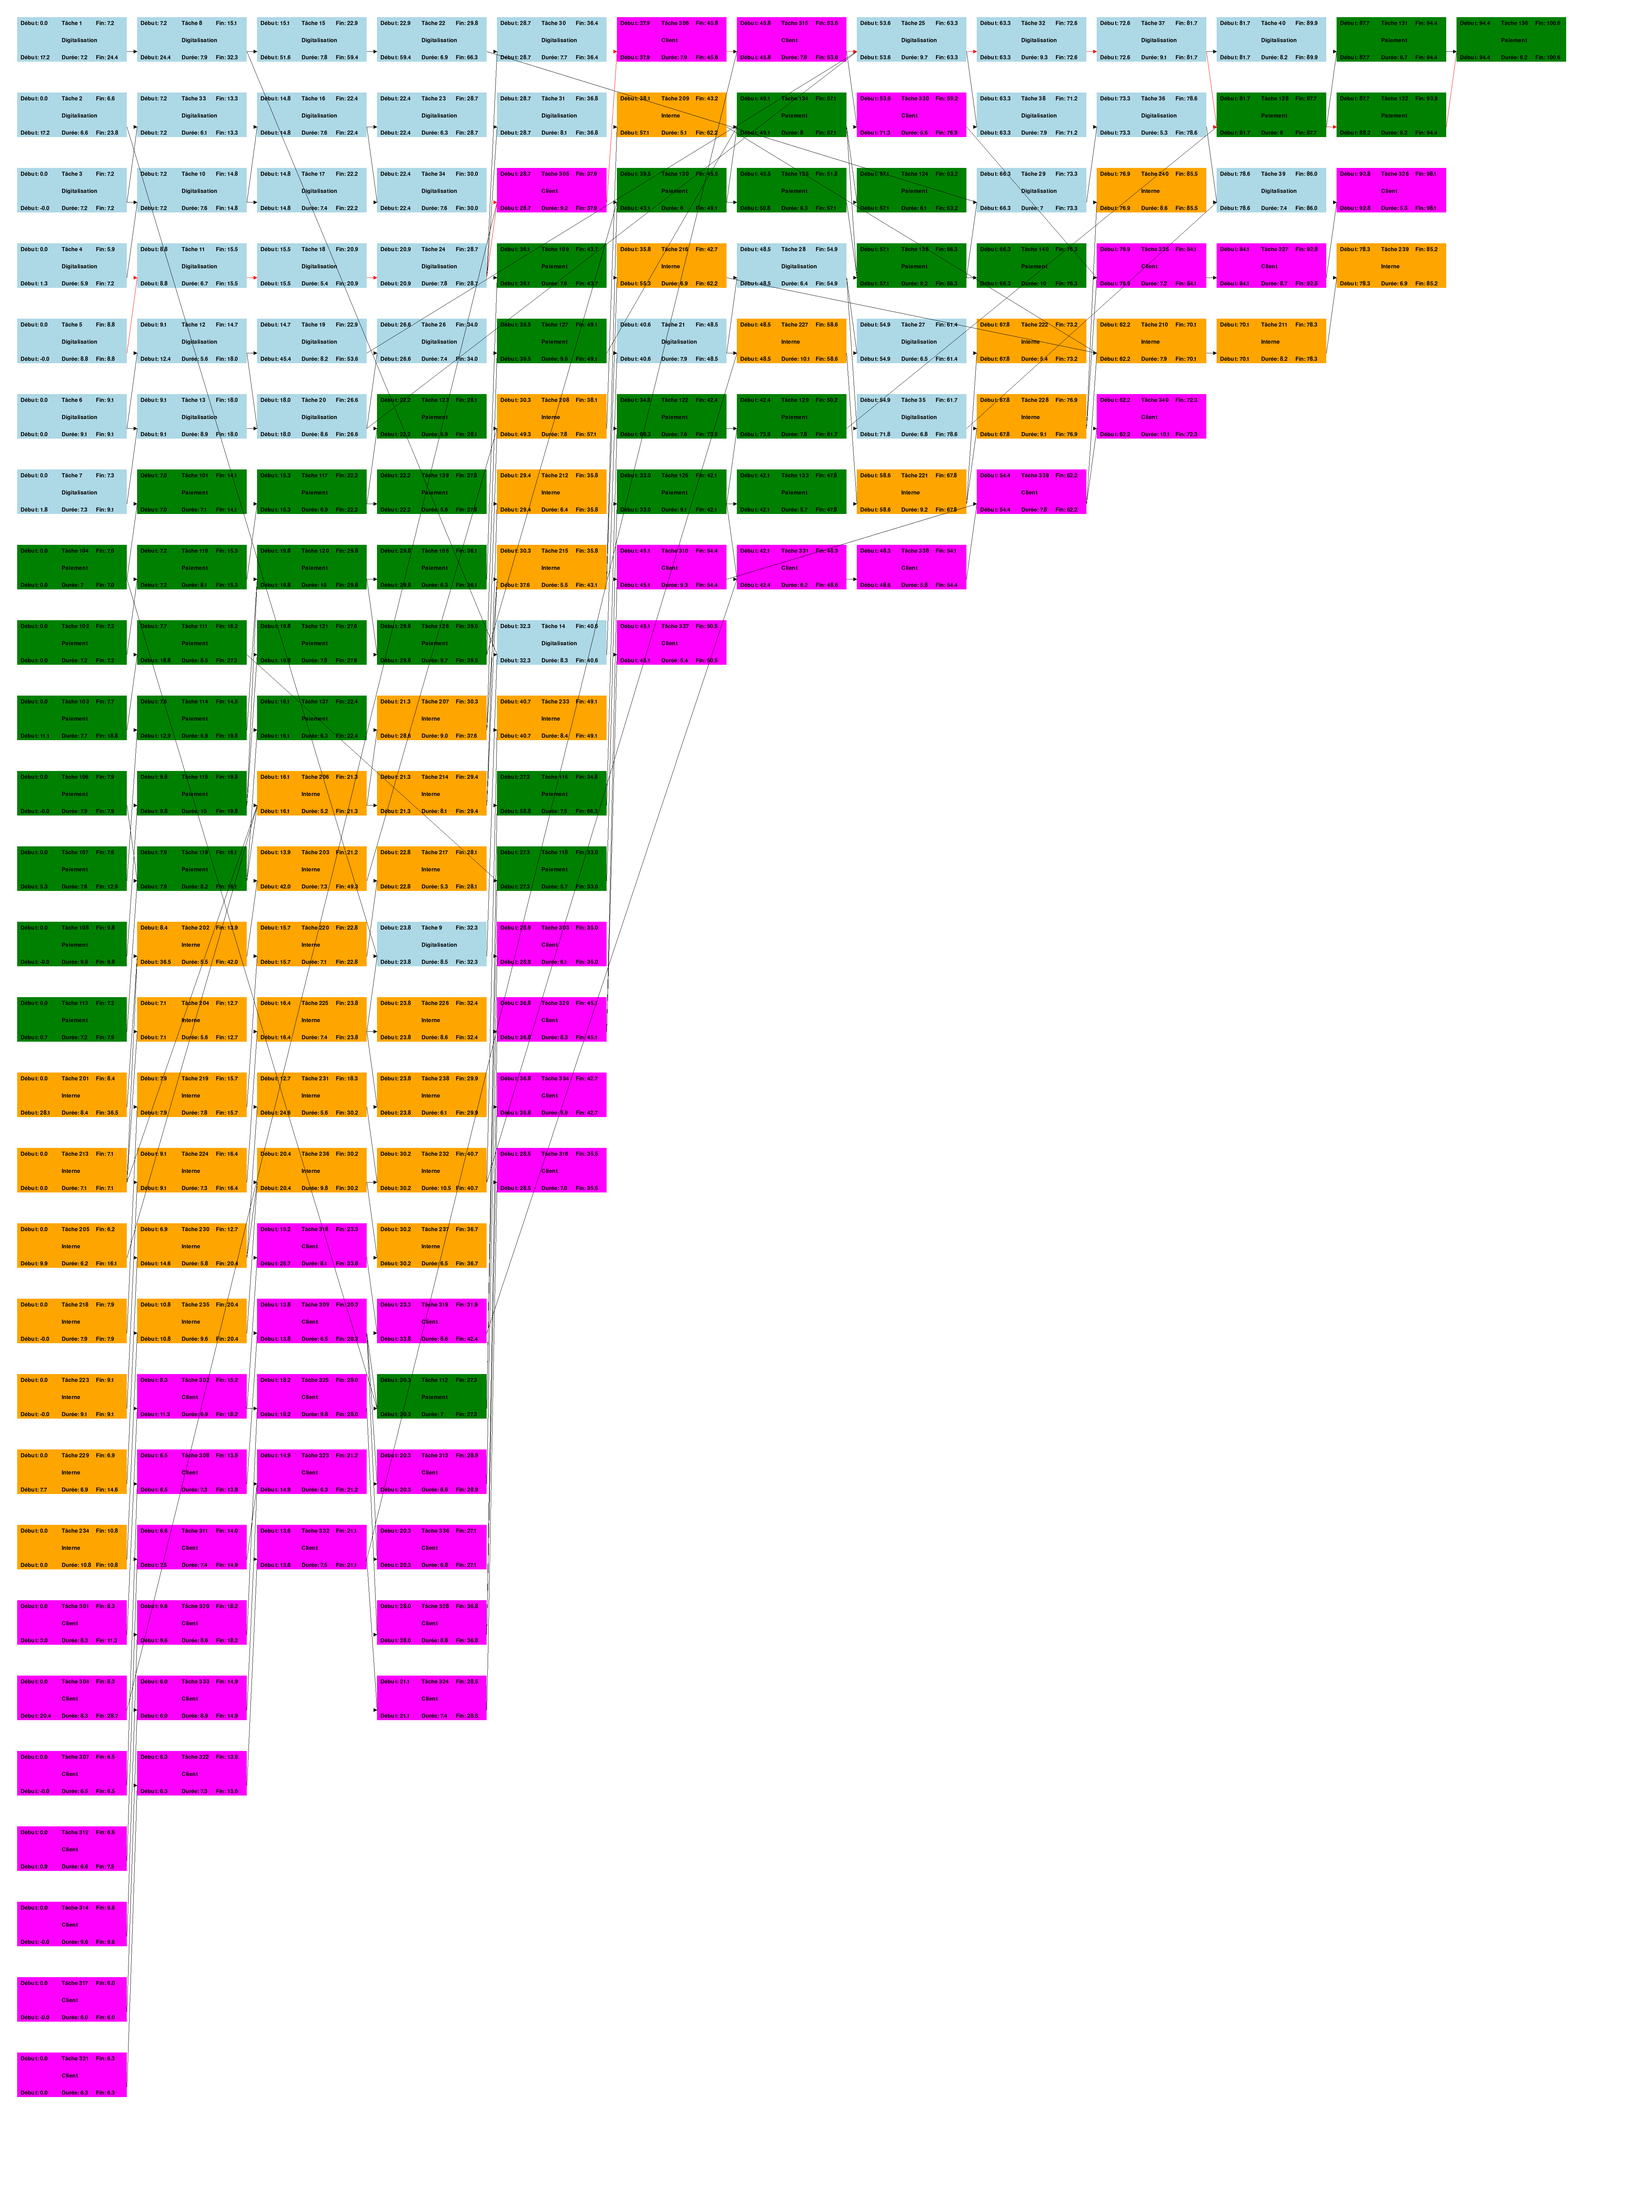
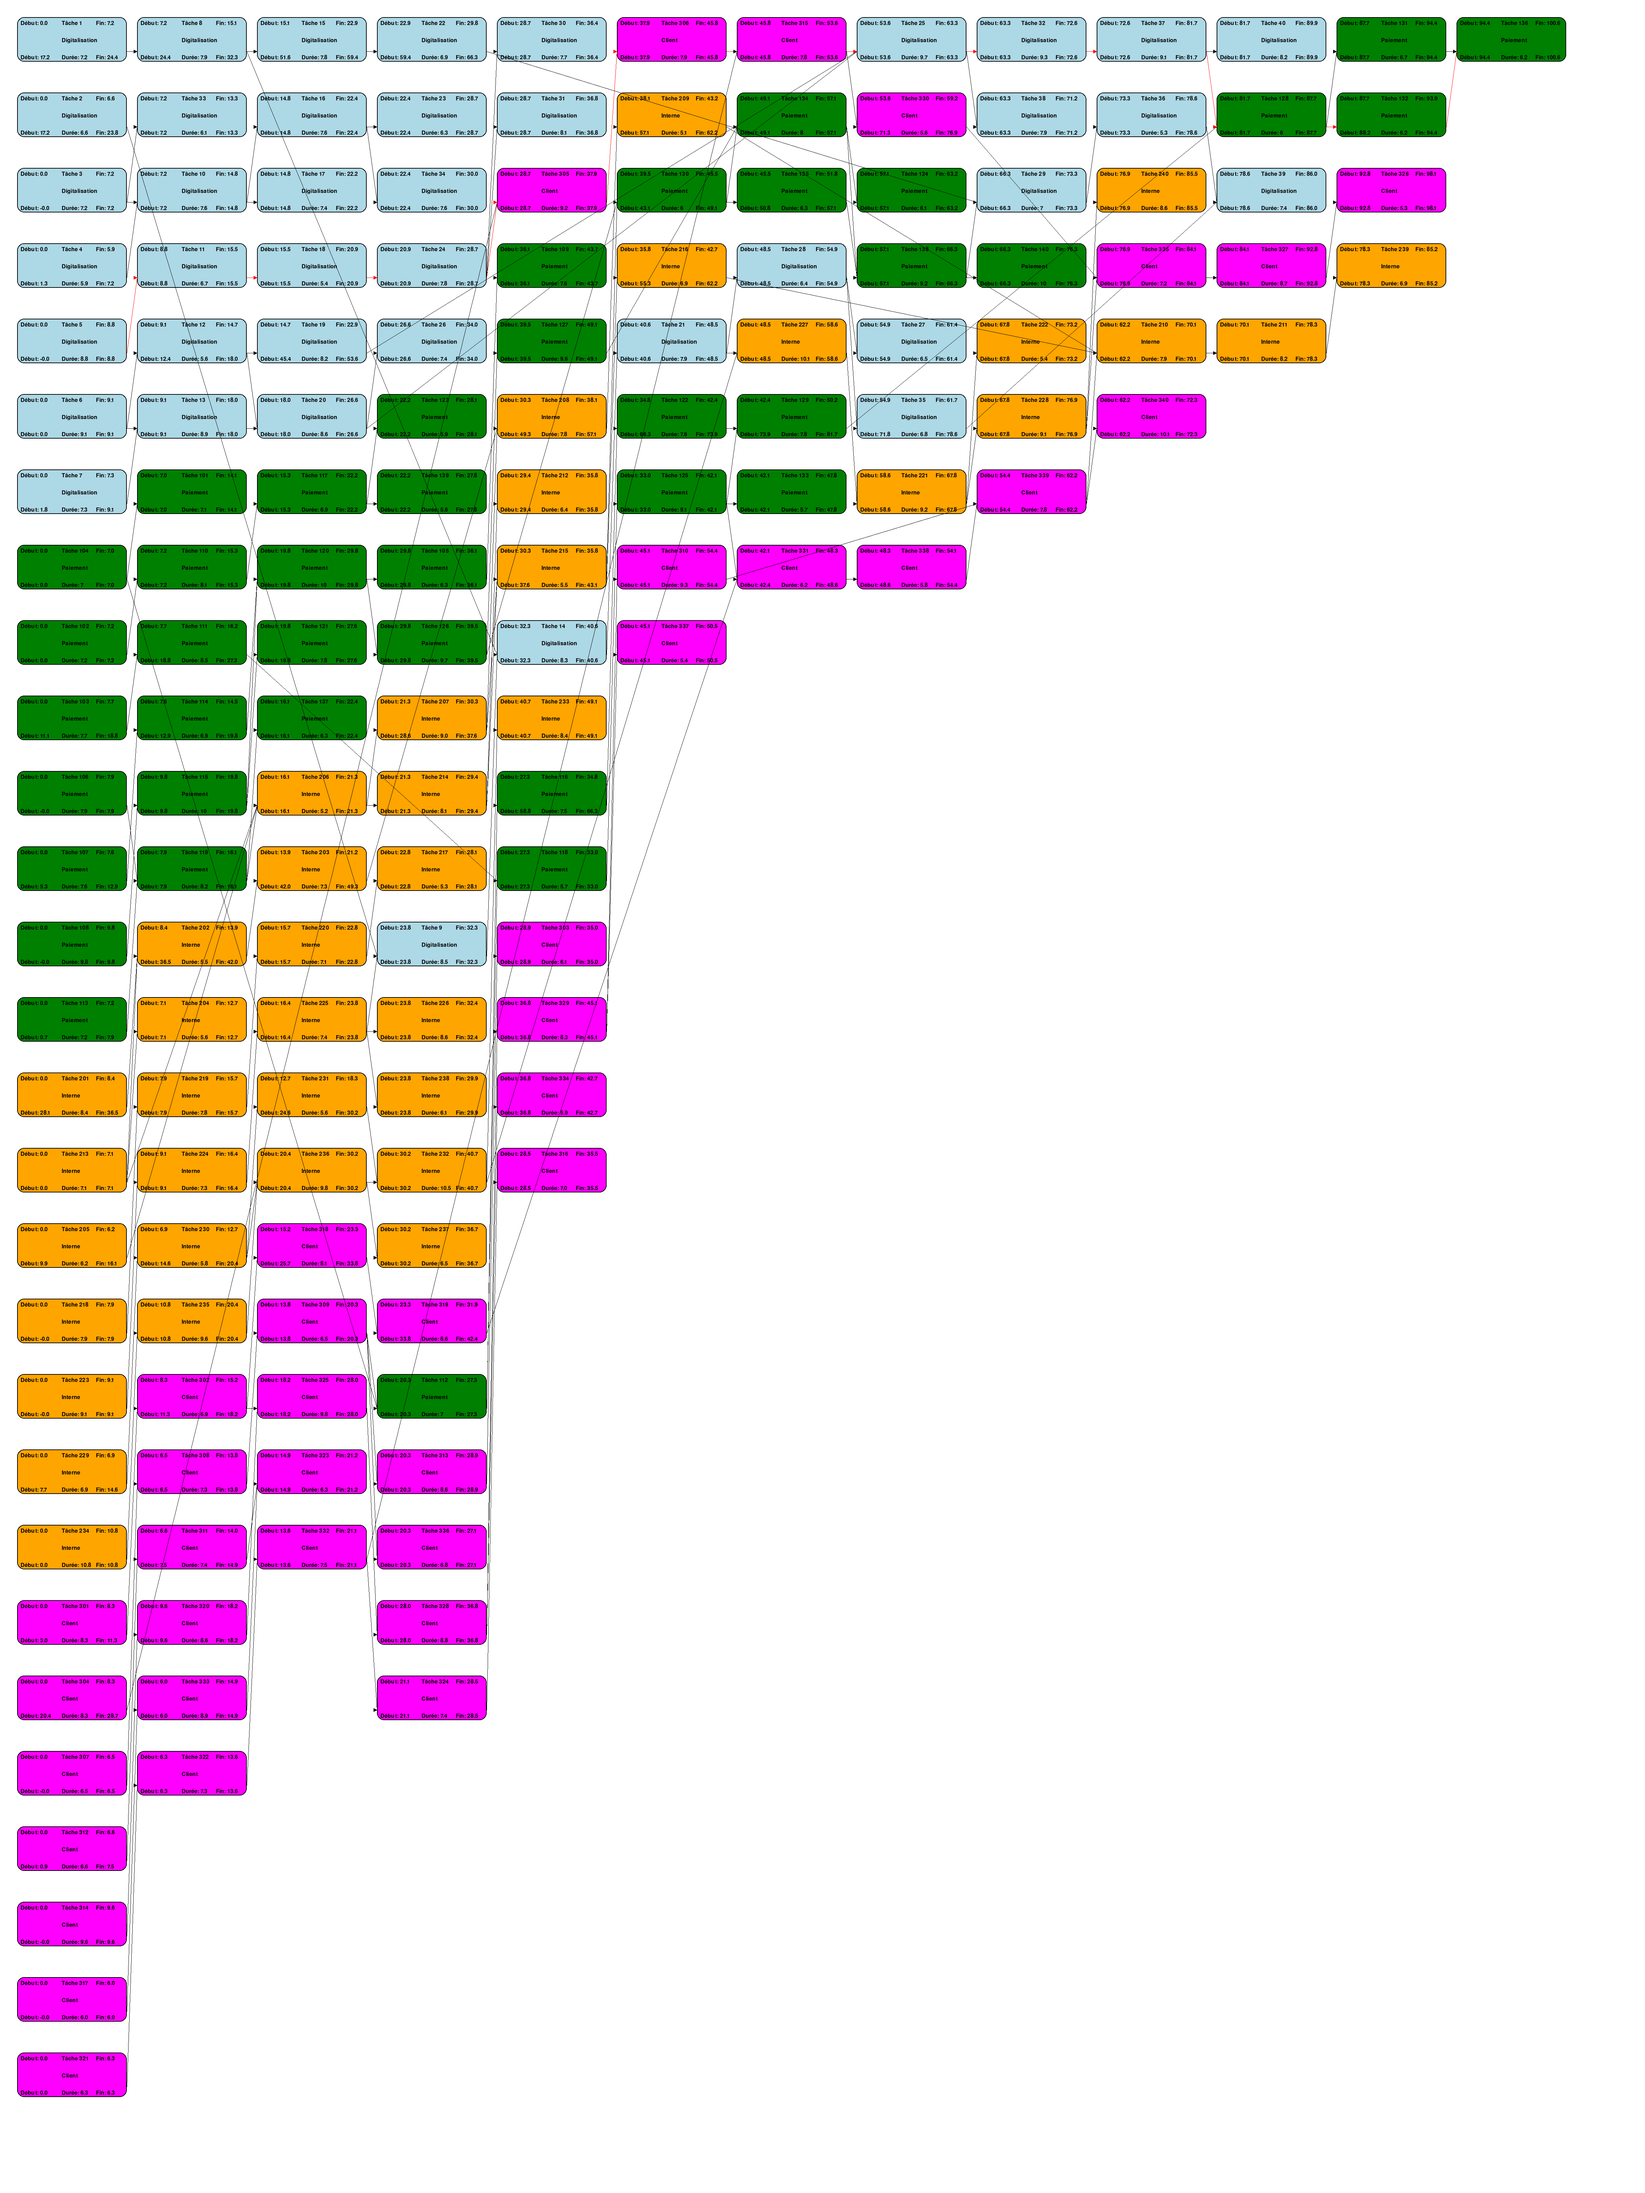
Refactorisation de l'affichage des tâches et de la capture d'écran

diff --git a/Algo PERT.py b/Algo PERT.py
@@ -53,46 +53,7 @@ def calcul_dates(taches):
         temps_taches[tache["id"]] = (debut, fin)
     return temps_taches
 
-# Fonction pour calculer les temps au plus tard
-def calcul_temps_tard2(taches, temps_taches):
-    temps_max = 100.6
-    last_taches = []
-    
-    for tache in taches:
-        has_child = False
-        for tache2 in taches:
-            if tache['id'] in tache2['predecesseurs']:
-                has_child = True
-                break
-        if not has_child:
-            last_taches.append(tache)
-    
-    cur_taches = last_taches
-    
-    for t in cur_taches:
-        t['end_tard'] = temps_max
-        t['start_tard'] = t['end_tard'] - t['duree']
-    
-    while cur_taches:
-        next_cur_taches = []
-        for t in cur_taches:
-            child = []
-            child_complet = True
-            if type(t) == int:
-                continue
-            for t2 in cur_taches:
-                if t['id'] in t2['predecesseurs']:
-                    child.append(t2)
-                    if t2['start_tard'] == None:
-                        child_complet = False
-            if child_complet and child != []:
-                min_start_tard = min([t2['start_tard'] for t2 in child])
-                t['end_tard'] = min_start_tard
-                t['start_tard'] = t['end_tard'] - t['duree']
-            for t2 in t['predecesseurs']:
-                next_cur_taches.append(t2)
-        cur_taches = next_cur_taches
-
+# Calcul des temps au plus tard
 def calcul_temps_tard(taches, temps_taches):
     G = nx.DiGraph()
     for tache in taches:
@@ -289,6 +250,76 @@ def capturer_reseau_complet():
     image_finale.save("reseau_complet.png")
     print("Réseau complet capturé avec succès.")
 
+# Fonction pour prioriser les tâches en fonction de l'impact inter-projets
+def prioriser_taches_par_impact(taches):
+    G = nx.DiGraph()
+    for tache in taches:
+        G.add_node(tache["id"], projet=tache["id"] // 100)
+        for prec in tache["predecesseurs"]:
+            G.add_edge(prec, tache["id"])
+
+    # Calculer le nombre de successeurs pour chaque tâche
+    nombre_successeurs = {tache["id"]: len(list(nx.descendants(G, tache["id"]))) for tache in taches}
+    
+    # Ajouter une priorité basée sur l'impact sur d'autres projets
+    for tache in taches:
+        successeurs = list(nx.descendants(G, tache["id"]))
+        impact_inter_projet = len([s for s in successeurs if G.nodes[s]["projet"] != G.nodes[tache["id"]]["projet"]])
+        tache["priorite"] = nombre_successeurs[tache["id"]] + impact_inter_projet * 2  # Pondérer plus fortement les impacts inter-projets
+
+    # Trier les tâches par priorité décroissante (plus de successeurs et d'impact inter-projet en premier)
+    taches_triees = sorted(taches, key=lambda t: t["priorite"], reverse=True)
+    return taches_triees
+
+def definir_ordre_taches(taches):
+    # Séparer les tâches par catégorie
+    ordre_taches_digit = []
+    ordre_taches_paiement = []
+    ordre_taches_interne = []
+    ordre_taches_client = []
+    
+    for tache in taches:
+        if tache["id"] < 100:
+            ordre_taches_digit.append(tache)
+        elif tache["id"] < 200:
+            ordre_taches_paiement.append(tache)
+        elif tache["id"] < 300:
+            ordre_taches_interne.append(tache)
+        else:
+            ordre_taches_client.append(tache)
+    
+    # Calculer le chemin critique pour chaque catégorie
+    chemin_critique_digit = calcul_chemin_critique(ordre_taches_digit)
+    chemin_critique_paiement = calcul_chemin_critique(ordre_taches_paiement)
+    chemin_critique_interne = calcul_chemin_critique(ordre_taches_interne)
+    chemin_critique_client = calcul_chemin_critique(ordre_taches_client)
+    
+    # Fonction pour trier les tâches en fonction du chemin critique et du temps des tâches
+    def trier_taches_par_chemin_critique_et_temps(ordre_taches, chemin_critique):
+        taches_critique = [tache for tache in ordre_taches if tache["id"] in chemin_critique]
+        taches_non_critique = [tache for tache in ordre_taches if tache["id"] not in chemin_critique]
+        
+        # Trier les tâches critiques par ordre de leur apparition dans le chemin critique
+        taches_critique.sort(key=lambda t: chemin_critique.index(t["id"]))
+        
+        # Trier les tâches non critiques par leur temps de début au plus tard
+        taches_ = trier_taches_topologiquement(taches)
+        temps_taches = calcul_dates(taches_)
+        temps_tard = calcul_temps_tard(ordre_taches, temps_taches)
+        taches_non_critique.sort(key=lambda t: temps_tard[t["id"]]["start_tard"])
+        
+        return taches_critique + taches_non_critique
+    
+    # Trier les tâches de chaque catégorie
+    ordre_taches_digit = trier_taches_par_chemin_critique_et_temps(ordre_taches_digit, chemin_critique_digit)
+    ordre_taches_paiement = trier_taches_par_chemin_critique_et_temps(ordre_taches_paiement, chemin_critique_paiement)
+    ordre_taches_interne = trier_taches_par_chemin_critique_et_temps(ordre_taches_interne, chemin_critique_interne)
+    ordre_taches_client = trier_taches_par_chemin_critique_et_temps(ordre_taches_client, chemin_critique_client)
+    
+    # Combiner les tâches dans l'ordre global en fonction de leur catégorie
+    ordre_global = (ordre_taches_digit, ordre_taches_paiement, ordre_taches_interne, ordre_taches_client)
+    
+    return ordre_global
 
 # Boucle principale
 def main():
@@ -296,9 +327,15 @@ def main():
     taches_ = trier_taches_topologiquement(taches)
     temps_taches = calcul_dates(taches_)
     chemin_critique = calcul_chemin_critique(taches_)
-    # temps_taches_tard = calcul_temps_tard(taches_, temps_taches)
+    ordre_taches = definir_ordre_taches(taches)
+    
+    print("Tâches à effectuer par catégorie:")
+    for projet in ordre_taches:
+        print(f"Projet {projet[0]['id'] // 100}: {[tache['id'] for tache in projet]}")
+    
     offset_x, offset_y = 0, 0  # Offsets pour le déplacement
     veloci_x, veloci_y = 0, 0 # Velocité de déplacement.
+    
     zoom = 1.0  # Niveau de zoom
     speed = 5000
     friction = 5
@@ -310,6 +347,8 @@ def main():
 
     while True:
         keys = pygame.key.get_pressed()
+        
+        # Gestion des entrées clavier pour le déplacement et le zoom
         if keys[pygame.K_LEFT]:
             veloci_x -= speed / zoom * delta_time
         if keys[pygame.K_RIGHT]:
@@ -318,10 +357,14 @@ def main():
             veloci_y -= speed / zoom * delta_time
         if keys[pygame.K_DOWN]:
             veloci_y += speed / zoom * delta_time
+        
+        # Gestion des entrées clavier pour le zoom
         if keys[pygame.K_c]:
             zoom -= zoom_speed * delta_time * zoom
         if keys[pygame.K_v]:
             zoom += zoom_speed * delta_time * zoom
+        
+        # Gestion des entrées clavier pour les captures d'écran
         if keys[pygame.K_s]:
             capturer_ecran("capture.png")
         if keys[pygame.K_r]:
@@ -343,7 +386,6 @@ def main():
 
         # Genérer la police d'écriture en dehors de la boucles du dessin des taches.
         font = pygame.font.Font(None, int(24 * zoom))
-
 
         # Dessiner les tâches
         y_position = 50  # Position de départ pour l'affichage des tâches
